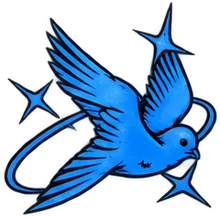
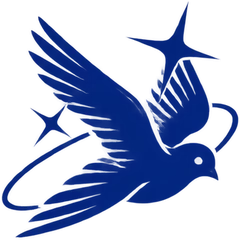
Cursor trail: switch to Krish's 8 navy illustrations
Bird, moon, laptop, wave, football, go-kart, design layers, camera — each cut
from the sheet with its own mask, ~240px WebP.

diff --git a/index.html b/index.html
@@ -71,30 +71,14 @@
             <img src="/assets/images/krish-portrait.jpg" width="1216" height="1294" decoding="async" alt="Krish Viramgama, backlit silhouette looking over his shoulder" />
             <!-- Cursor trail: Krish's blue sketch illustrations drop along the pointer's path (src/sections/trail.js). -->
             <div class="trail" aria-hidden="true">
-              <img data-src="/assets/trail/laptop.webp" width="220" height="191" alt="" decoding="async" />
-              <img data-src="/assets/trail/camera.webp" width="220" height="145" alt="" decoding="async" />
-              <img data-src="/assets/trail/star.webp" width="202" height="220" alt="" decoding="async" />
-              <img data-src="/assets/trail/headphones.webp" width="220" height="202" alt="" decoding="async" />
-              <img data-src="/assets/trail/bird.webp" width="220" height="217" alt="" decoding="async" />
-              <img data-src="/assets/trail/code-terminal.webp" width="220" height="142" alt="" decoding="async" />
-              <img data-src="/assets/trail/wave.webp" width="220" height="169" alt="" decoding="async" />
-              <img data-src="/assets/trail/football.webp" width="220" height="166" alt="" decoding="async" />
-              <img data-src="/assets/trail/design-layers.webp" width="202" height="220" alt="" decoding="async" />
-              <img data-src="/assets/trail/moon.webp" width="220" height="218" alt="" decoding="async" />
-              <img data-src="/assets/trail/gokart.webp" width="220" height="129" alt="" decoding="async" />
-              <img data-src="/assets/trail/coffee.webp" width="182" height="204" alt="" decoding="async" />
-              <img data-src="/assets/trail/globe.webp" width="220" height="169" alt="" decoding="async" />
-              <img data-src="/assets/trail/vinyl-record.webp" width="220" height="207" alt="" decoding="async" />
-              <img data-src="/assets/trail/palm-trees.webp" width="220" height="209" alt="" decoding="async" />
-              <img data-src="/assets/trail/game-controller.webp" width="220" height="181" alt="" decoding="async" />
-              <img data-src="/assets/trail/mountains.webp" width="220" height="148" alt="" decoding="async" />
-              <img data-src="/assets/trail/surfboard.webp" width="220" height="202" alt="" decoding="async" />
-              <img data-src="/assets/trail/dumbbell.webp" width="220" height="156" alt="" decoding="async" />
-              <img data-src="/assets/trail/flower.webp" width="220" height="182" alt="" decoding="async" />
-              <img data-src="/assets/trail/airplane-window.webp" width="220" height="214" alt="" decoding="async" />
-              <img data-src="/assets/trail/sunset-road.webp" width="220" height="157" alt="" decoding="async" />
-              <img data-src="/assets/trail/racing-flag.webp" width="220" height="204" alt="" decoding="async" />
-              <img data-src="/assets/trail/anatomical-heart.webp" width="220" height="214" alt="" decoding="async" />
+              <img data-src="/assets/trail/laptop.webp" width="240" height="193" alt="" decoding="async" />
+              <img data-src="/assets/trail/bird.webp" width="240" height="240" alt="" decoding="async" />
+              <img data-src="/assets/trail/camera.webp" width="240" height="170" alt="" decoding="async" />
+              <img data-src="/assets/trail/wave.webp" width="240" height="206" alt="" decoding="async" />
+              <img data-src="/assets/trail/football.webp" width="240" height="176" alt="" decoding="async" />
+              <img data-src="/assets/trail/design-layers.webp" width="240" height="234" alt="" decoding="async" />
+              <img data-src="/assets/trail/moon.webp" width="240" height="239" alt="" decoding="async" />
+              <img data-src="/assets/trail/gokart.webp" width="240" height="144" alt="" decoding="async" />
             </div>
           </figure>
         </div>

diff --git a/src/sections/trail.js b/src/sections/trail.js
@@ -1,7 +1,7 @@
 import gsap from 'gsap';
 
 // Cursor trail over the portrait (inspired by pamidordesign.co): every SPACING px of pointer
-// travel, the next of Krish's 24 sketch illustrations drops where the pointer is, pops in, then
+// travel, the next of Krish's 8 blue illustrations drops where the pointer is, pops in, then
 // fades. Decorative only — pointer devices only, nothing for touch or reduced motion.
 const SPACING = 90;
 

diff --git a/design-system/pages/home.md b/design-system/pages/home.md
@@ -9,7 +9,7 @@ Inherits: design-system/MASTER.md
 - Intro is skippable (any click or key press — no visible button, by design) and, in production, plays once per browser session. It always plays in dev.
 - The wipe uses a deliberately richer blue gradient (light blue → `--accent` → `#0a1a6b`) than anywhere else on the site.
 - **Hero:** name "Krish Viramgama" keeps its capitals (`text-transform: none`), Nohemi 500 (lighter than other headings), line-height 0.84 so the two lines sit tight; tagline "data, design & everything in between. i take the curious seriously." No title line.
-- **Cursor trail** over the portrait (pamidordesign.co-inspired, `src/sections/trail.js`): every 90px of pointer travel the next of Krish's 24 blue sketch illustrations (`public/assets/trail/*.webp`, 110px wide) drops at the pointer with a random tilt, pops in (350ms) and fades (300ms). Pointer devices only.
+- **Cursor trail** over the portrait (pamidordesign.co-inspired, `src/sections/trail.js`): every 90px of pointer travel the next of Krish's 8 navy illustrations (`public/assets/trail/*.webp`, 110px wide) drops at the pointer with a random tilt, pops in (350ms) and fades (300ms). Pointer devices only.
 - **About** (pamidordesign.co-inspired, `src/sections/about.js`): the intro (a full screen tall) **pins** for ~1.6 screens of scrolling while the paragraph reveals word by word — each word fades up from .16 in the accent blue, then settles to ink, so a blue wave runs through it — then rests briefly and releases. Paragraph is sentence case (Krish's own copy), with @figureitoutwithkrish linked. Tilted (-6°) childhood photo (`about-krish.jpg`) drifts while pinned; divider; blue highlights card cycling stats with a blur cross-fade; "(clients & collaborations)" marquee of client names in two rows moving opposite ways (pauses on hover, static under reduced motion).
 - **Dividers:** `<hr class="divider">` (1px `--line`, inside the gutters) between page sections.
 - **Journey** (bryangarage.dev-inspired, `src/sections/journey.js`), after About on the blue "techy" world (`--deep #050b24`, radial blue glows, the wipe's streak texture), with static gradient fades from/to the light page:
